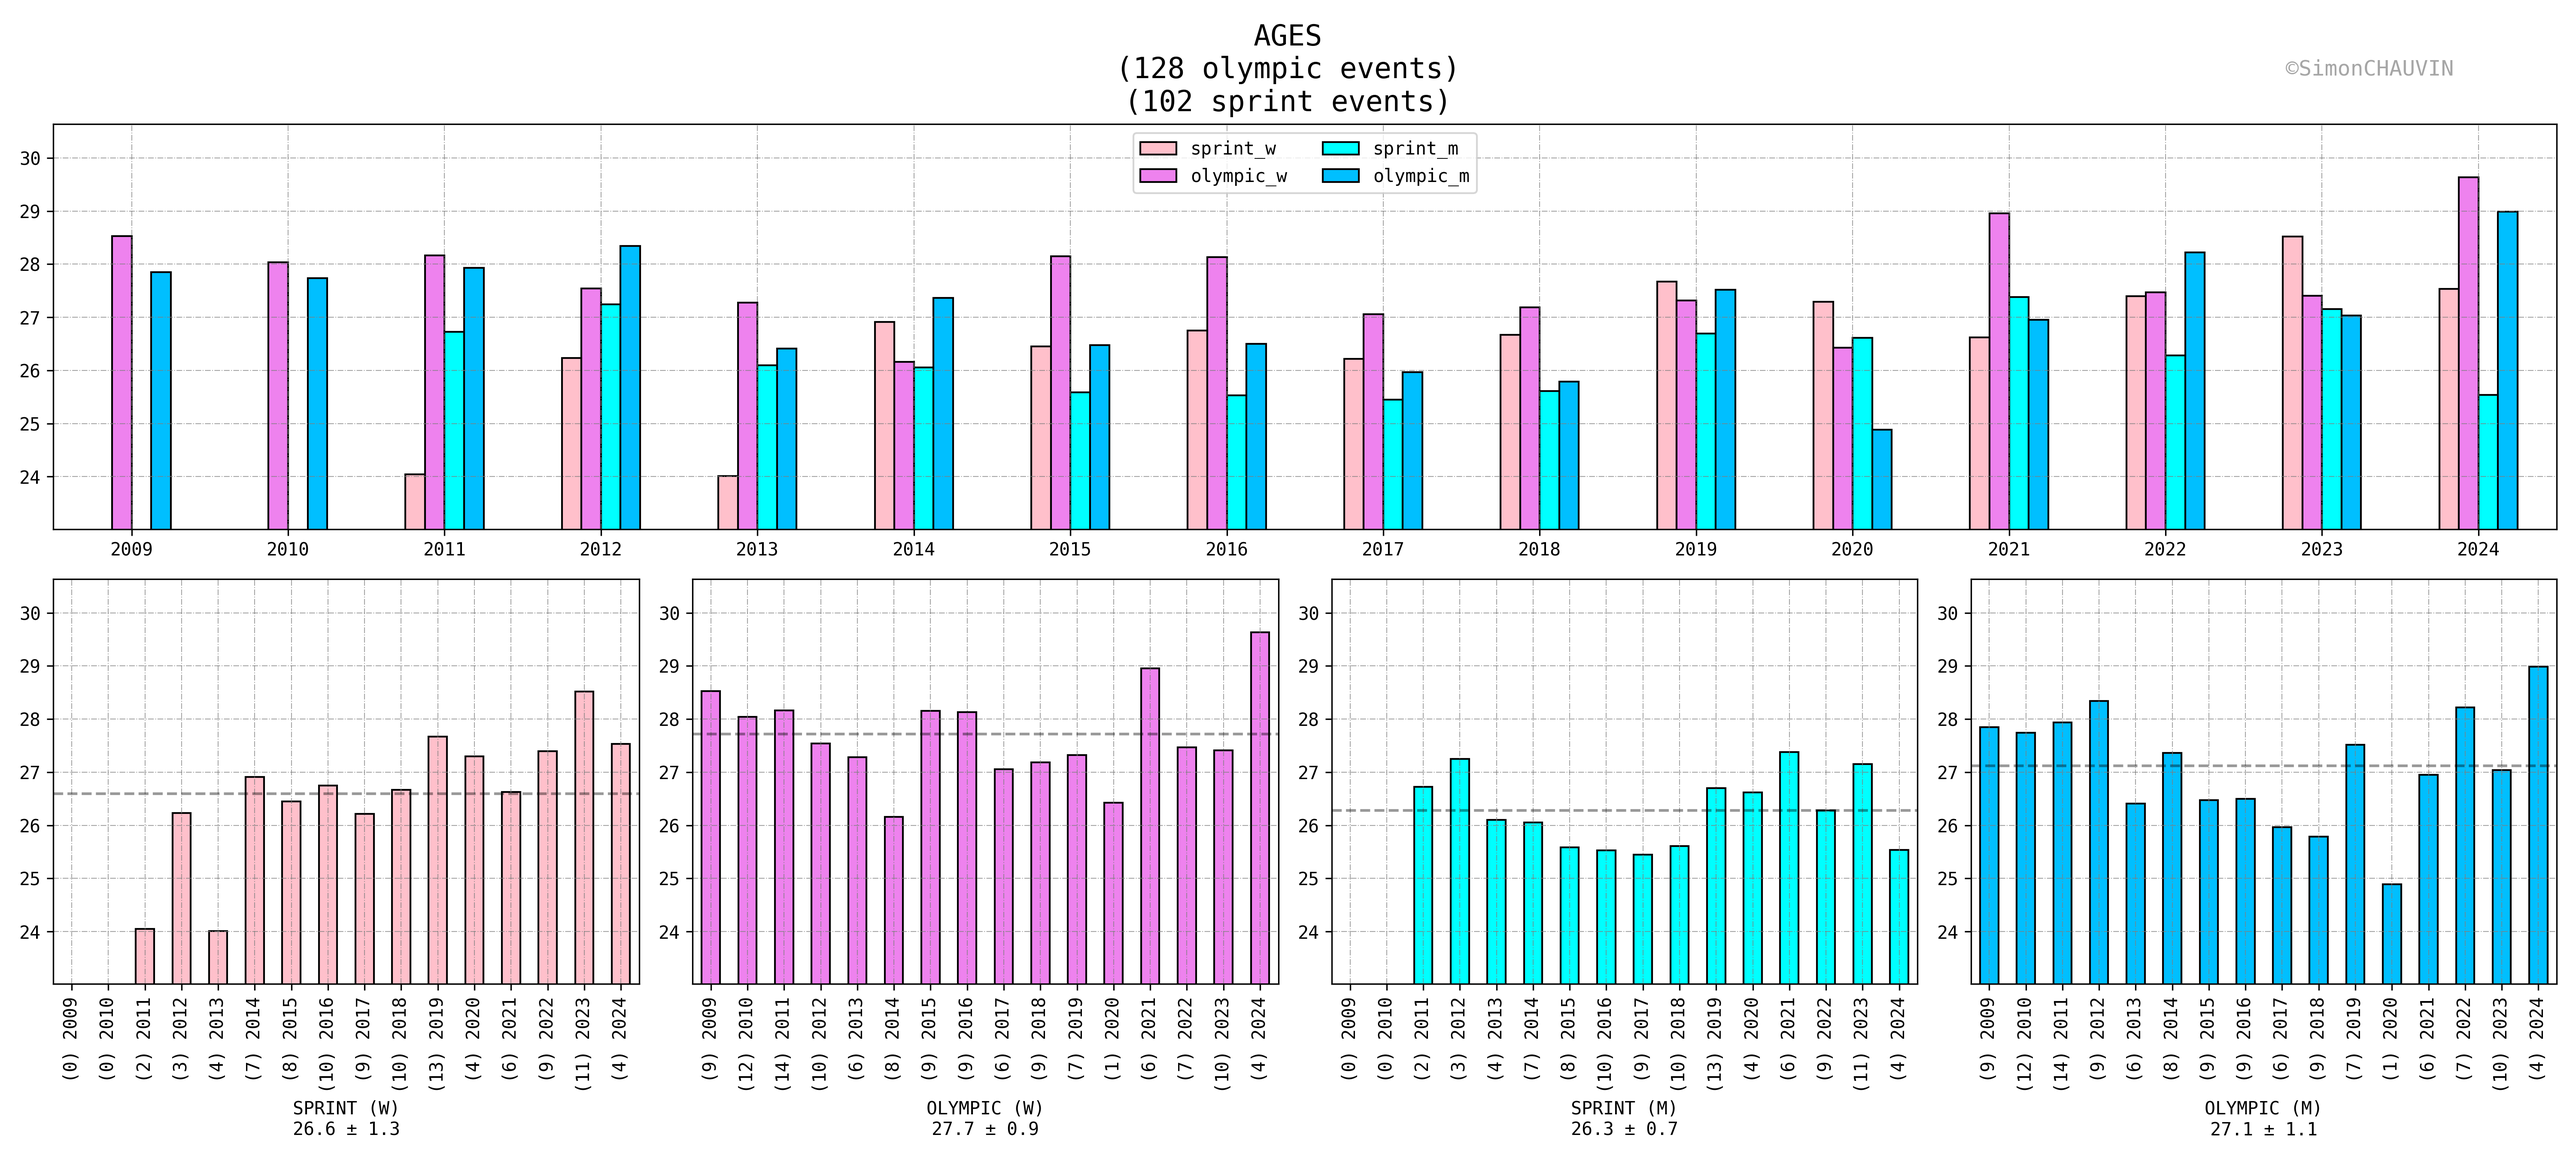
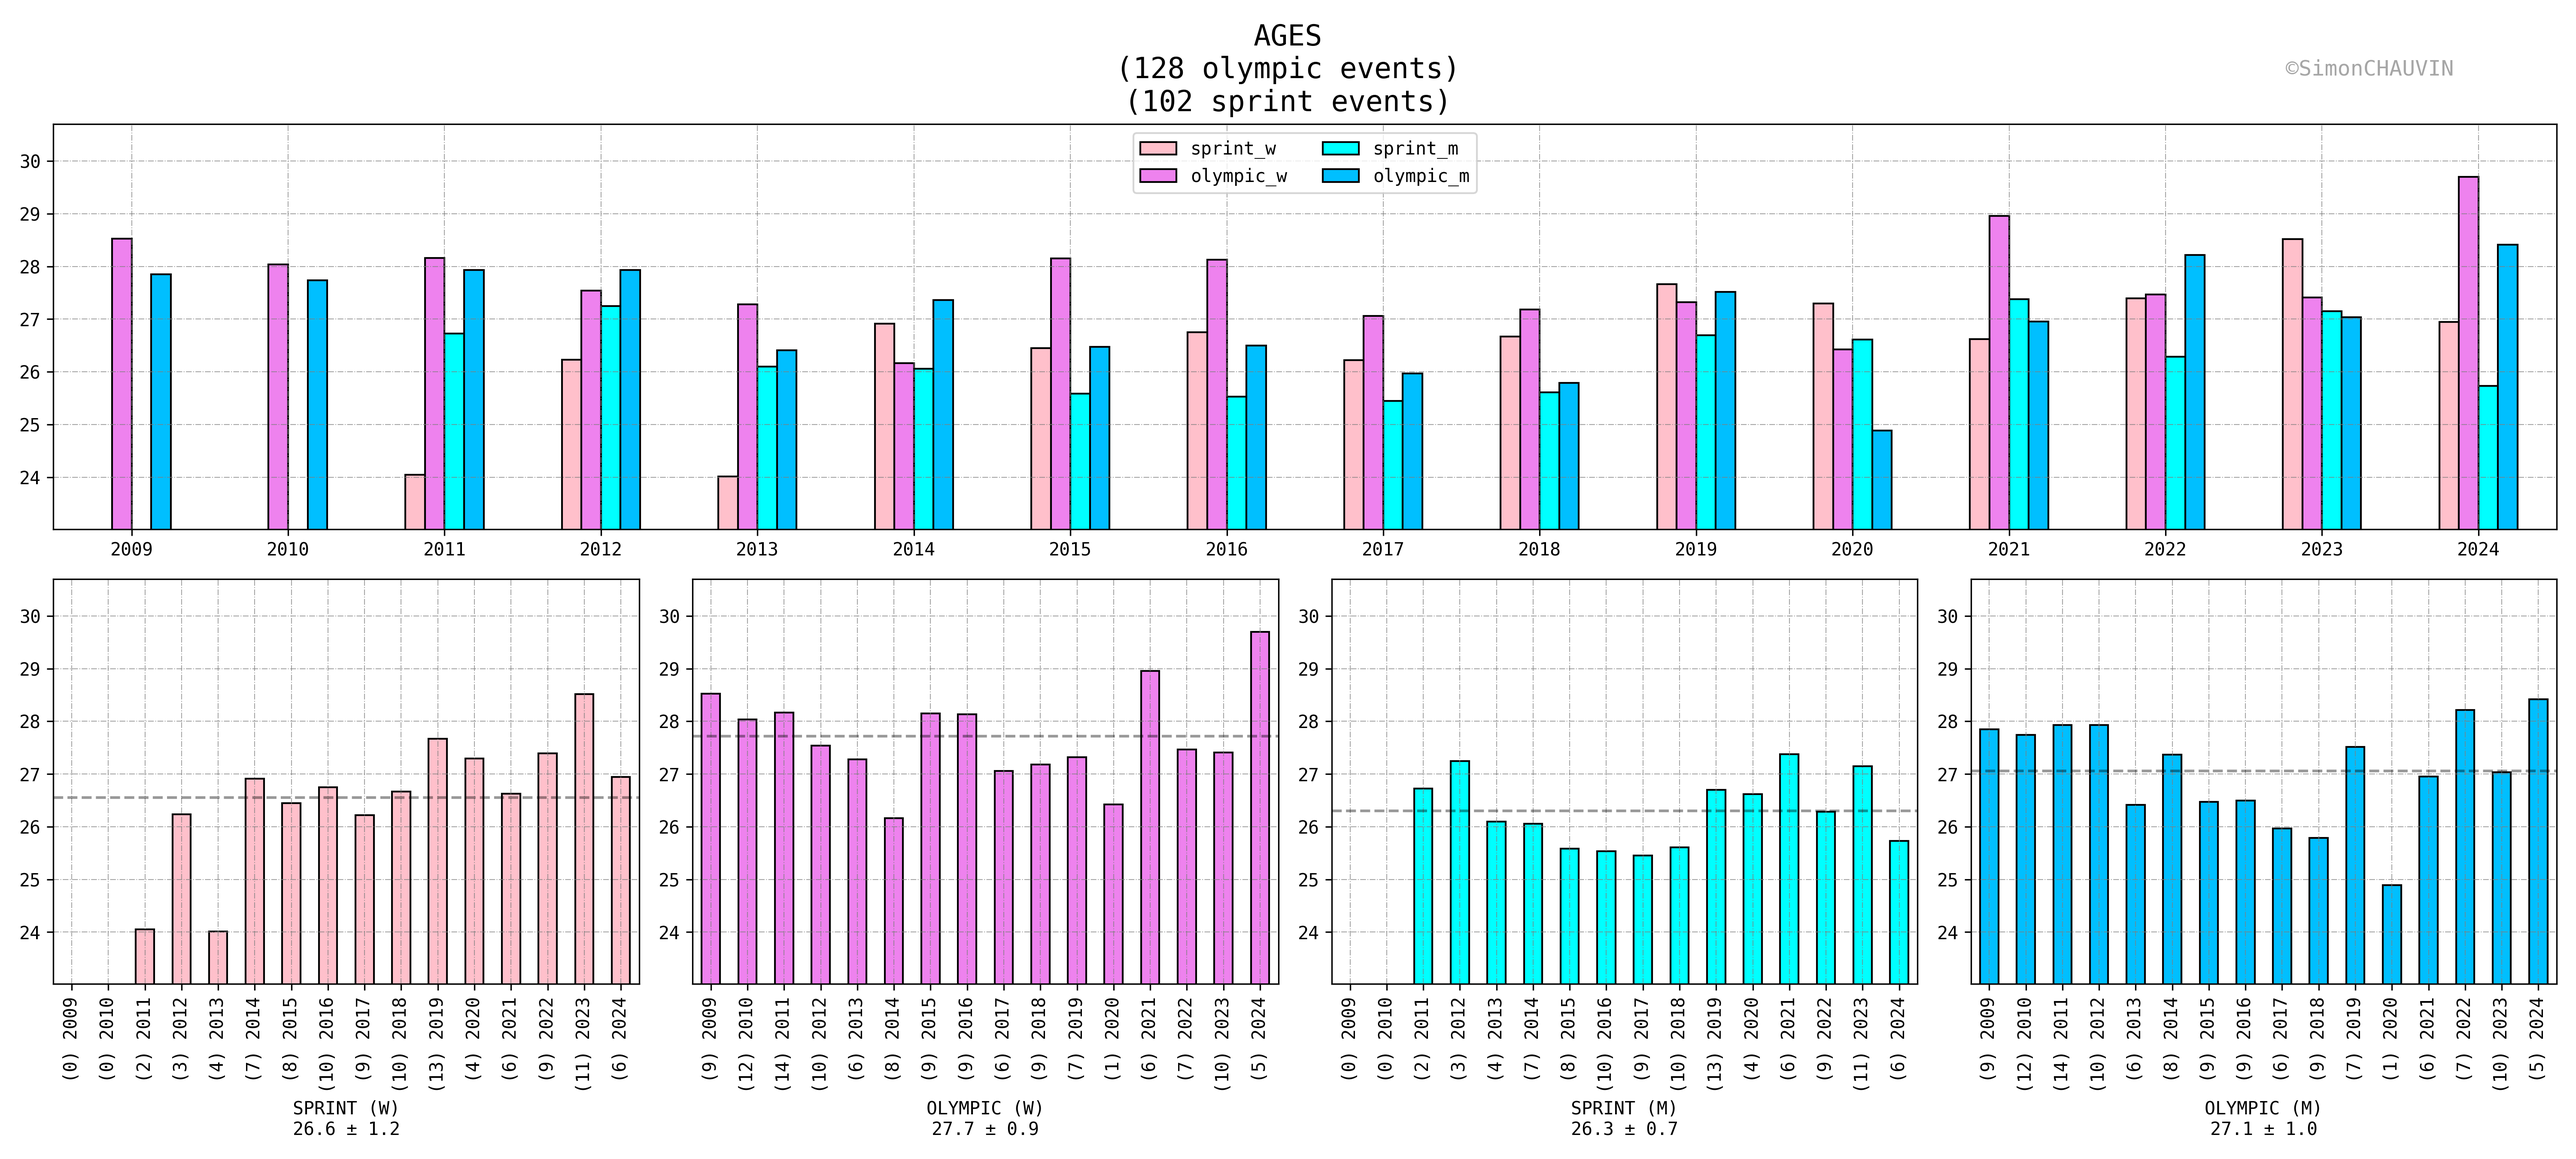
fix - fetch all ages

diff --git a/races.py b/races.py
@@ -16,7 +16,7 @@ from PIL import Image
 from io import BytesIO
 
 from utils import json_dump, data_dir, json_load, res_dir, country_emojis, add_watermark
-from utils_itu import get_request
+from utils_itu import get_request, get_athlete_info
 
 # todo: is it the correct way to set the math fonts?
 plt.rcParams["font.family"] = "monospace"  # todo: set in global config
@@ -405,6 +405,14 @@ def get_prog_results_df(prog_data: dict) -> pd.DataFrame:
         if r["position"] in ["DNF", "DNS", "DSQ", "LAP"]:
             continue
         di = dict(zip(column_names, r["splits"]))
+        if ("dob" not in r) or (r["dob"] is None):
+            athlete_id = r["athlete_id"]
+            athlete_info = get_athlete_info(athlete_id)
+            if (athlete_info is not None) and ("dob" in athlete_info):
+                r["dob"] = athlete_info["dob"]
+            else:
+                print(f"{athlete_id}: no info ({r['athlete_first']} {r['athlete_last']} [{r['athlete_noc']}])")
+
         if ("dob" not in r) or (r["dob"] is None):
             di["age"] = None
         else:

diff --git a/itu_athlete_dimensions.py b/itu_athlete_dimensions.py
@@ -6,6 +6,7 @@ import numpy as np
 import pandas as pd
 import requests  # pip install requests
 from utils import data_dir, res_dir, add_watermark
+from utils_itu import get_athlete_info
 
 # todo: is it the correct way to set the math fonts?
 plt.rcParams["font.family"] = "monospace"  # todo: set in global config
@@ -40,21 +41,6 @@ def get_rankings(ranking_id: int):
     df = pd.DataFrame(res["rankings"])
     df.to_csv(saving_path)
     return df
-
-
-def get_athlete_info(athlete_id: int):
-    saving_path = data_dir / "athletes" / f"{athlete_id}.json"
-    saving_path.parent.mkdir(parents=True, exist_ok=True)
-    # check if athlete_id has already been retrieved and saved
-    if saving_path.exists():
-        with open(saving_path) as f:
-            res = json.load(f)
-        return res
-    url_suffix = f"athletes/{athlete_id}"
-    res = get_request(url_prefix + url_suffix)
-    with open(saving_path, "w") as f:
-        json.dump(res, f)
-    return res
 
 
 def main():

diff --git a/utils_itu.py b/utils_itu.py
@@ -1,6 +1,8 @@
 import json
 import requests  # pip install requests
 
+from utils import data_dir
+
 url_prefix = "https://api.triathlon.org/v1/"
 
 with open("api_key.txt", "r") as f:
@@ -15,6 +17,21 @@ def get_request(url_suffix, params=""):
     d = json.loads(response.text)
     d = d["data"]
     return d
+
+
+def get_athlete_info(athlete_id: int):
+    saving_path = data_dir / "athletes" / f"{athlete_id}.json"
+    saving_path.parent.mkdir(parents=True, exist_ok=True)
+    # check if athlete_id has already been retrieved and saved
+    if saving_path.exists():
+        with open(saving_path) as f:
+            res = json.load(f)
+        return res
+    url_suffix = f"athletes/{athlete_id}"
+    res = get_request(url_prefix + url_suffix)
+    with open(saving_path, "w") as f:
+        json.dump(res, f)
+    return res
 
 
 category_mapping = {
